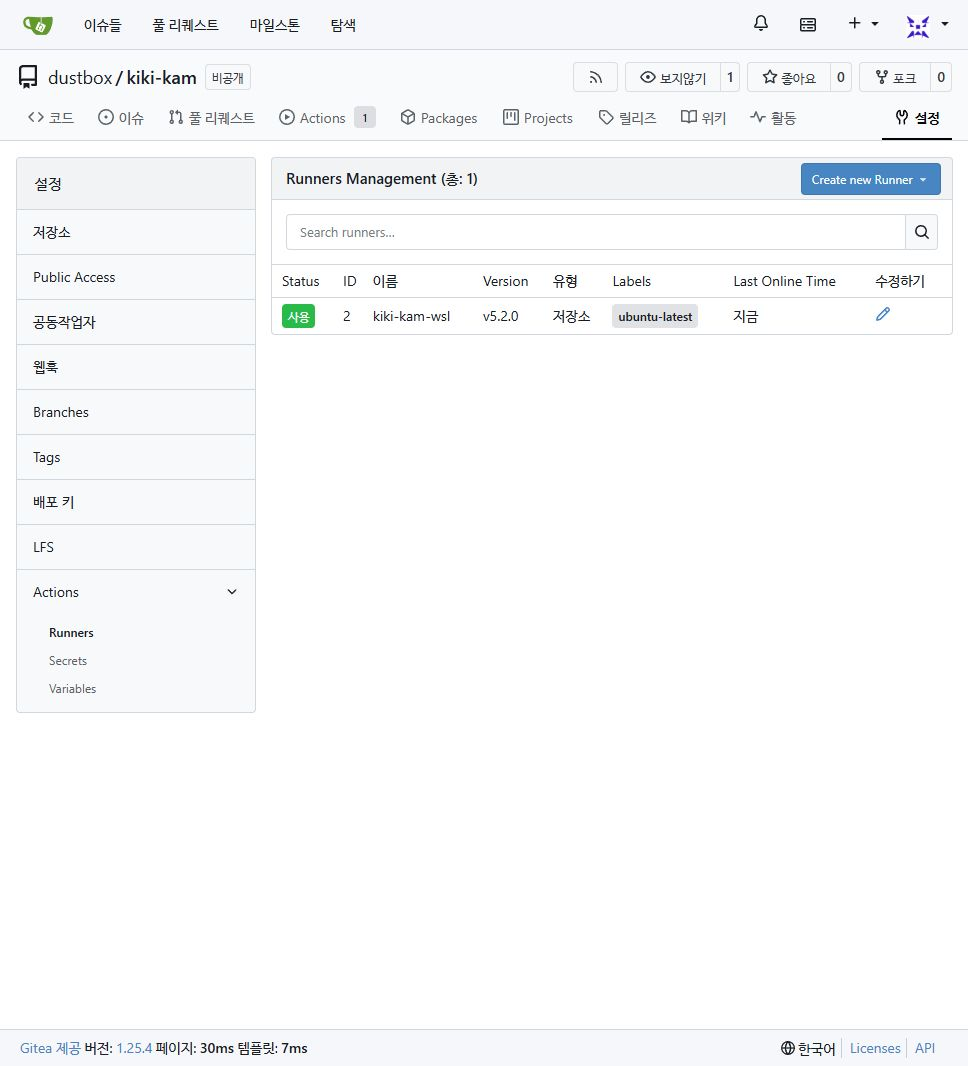
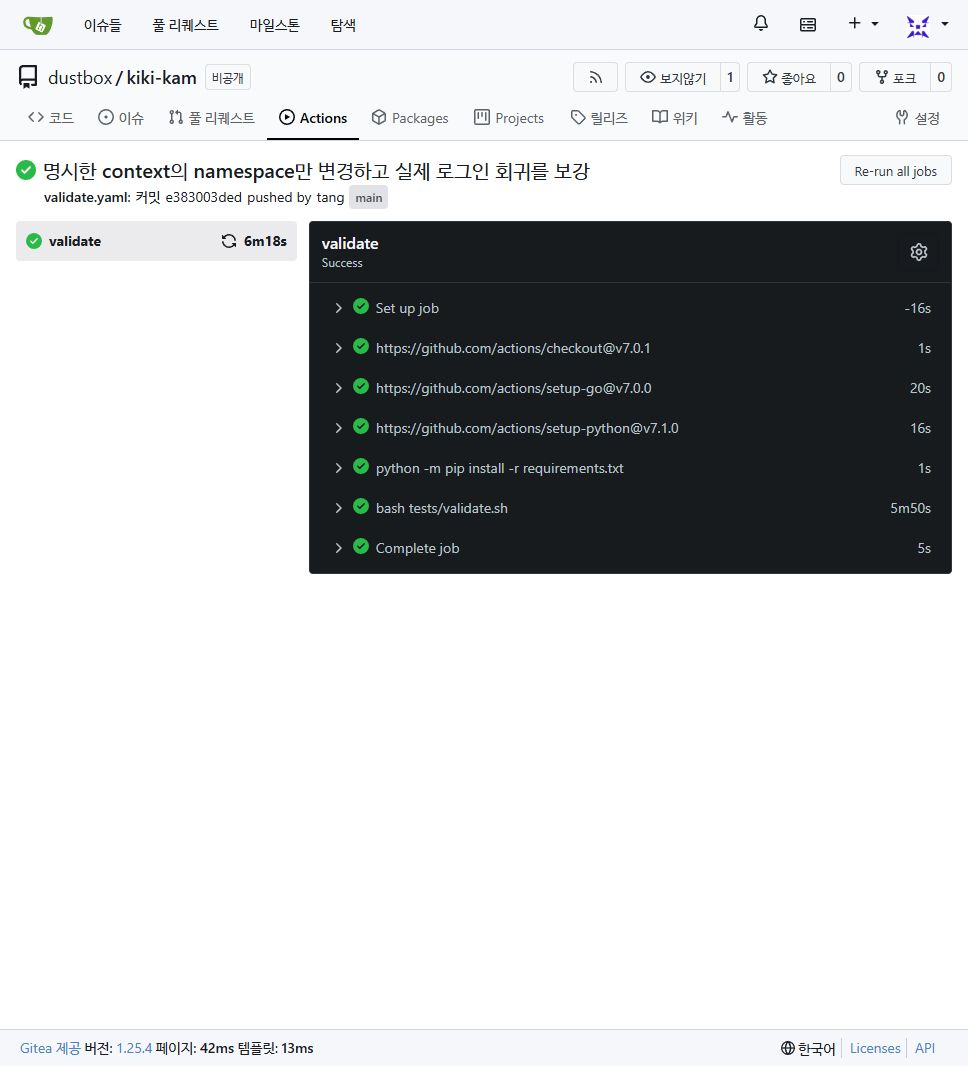
KAM 양쪽 CI 통과 결과와 실제 성공 화면을 기록

diff --git a/docs/screenshots/README.md b/docs/screenshots/README.md
@@ -19,7 +19,7 @@
 | 11-etcd-quorum.jpg | 2026-11-01 | 실제 양쪽 peer TCP 불가·etcd health/쓰기 실패 표본, 복구 후 sentinel·3-member 유지와 노드 Ready |
 | 12-kam-fast-handover.jpg | 2026-11-01 | 리더 Pod 삭제 3회 인수 2.60·2.66·2.70초, 두 worker Ready, namespace·상승 거부·삭제/만료 회수 통과, 남은 Grant 없음 |
 | 13-kiki-kam-repository.jpg | 2026-11-01 | 기존 3개 커밋과 새 c2b708e를 유지한 Gitea kiki-kam 저장소. CI 노란 표시는 runner 대기 상태이며 성공 증거가 아님 |
-| 14-kiki-kam-actions.jpg | 2026-11-01 | kiki-kam 저장소 범위 runner ID 2, kiki-kam-wsl v5.2.0 온라인·사용 상태. 촬영 당시 CI 실행 중이며 성공 화면이 아님 |
+| 14-kiki-kam-actions.jpg | 2026-11-01 | 최종 기능 커밋 e383003의 Gitea KAM Actions 실행 3 전체 성공. Go race·controller 실제 API·비밀번호 실제 API 11개 검사 통과 |
 
 이전 RBD 실패 화면은 [당시 커밋](https://github.com/tangt64/duststack-k8s-auto/blob/dc49538c95b74142796ed1b4942c2a83cb0ca658/docs/screenshots/06-rook-pvc-io.jpg)에
 남아 있습니다. 현재 06번 사진은 승인한 키 호환 변경 후 실제 통과 화면입니다.
